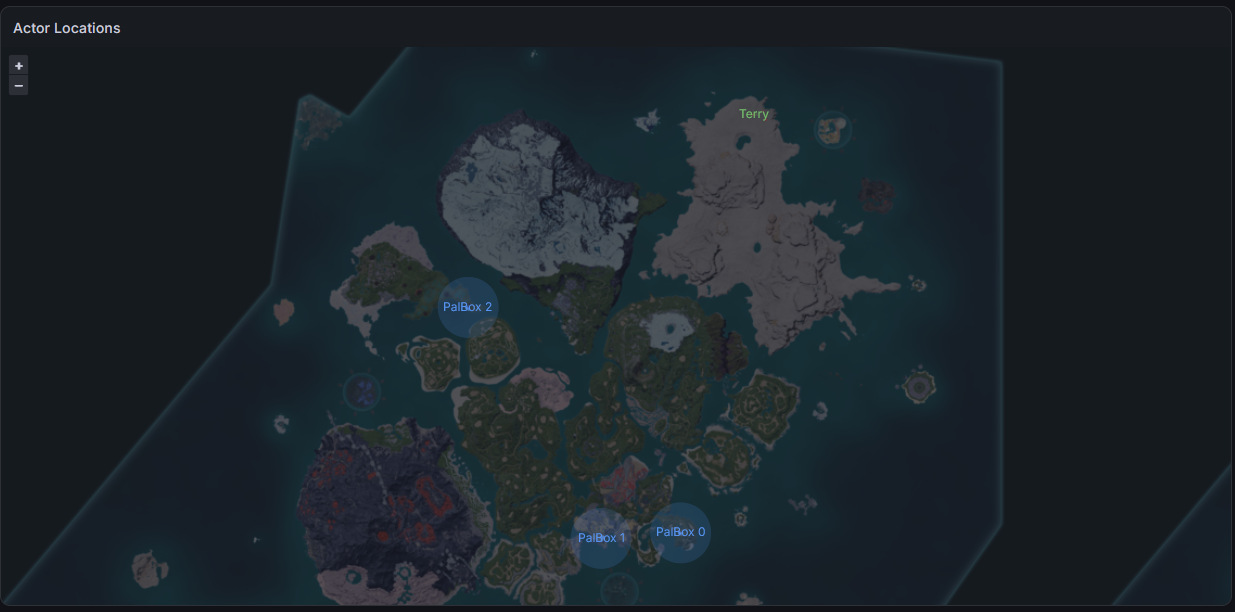
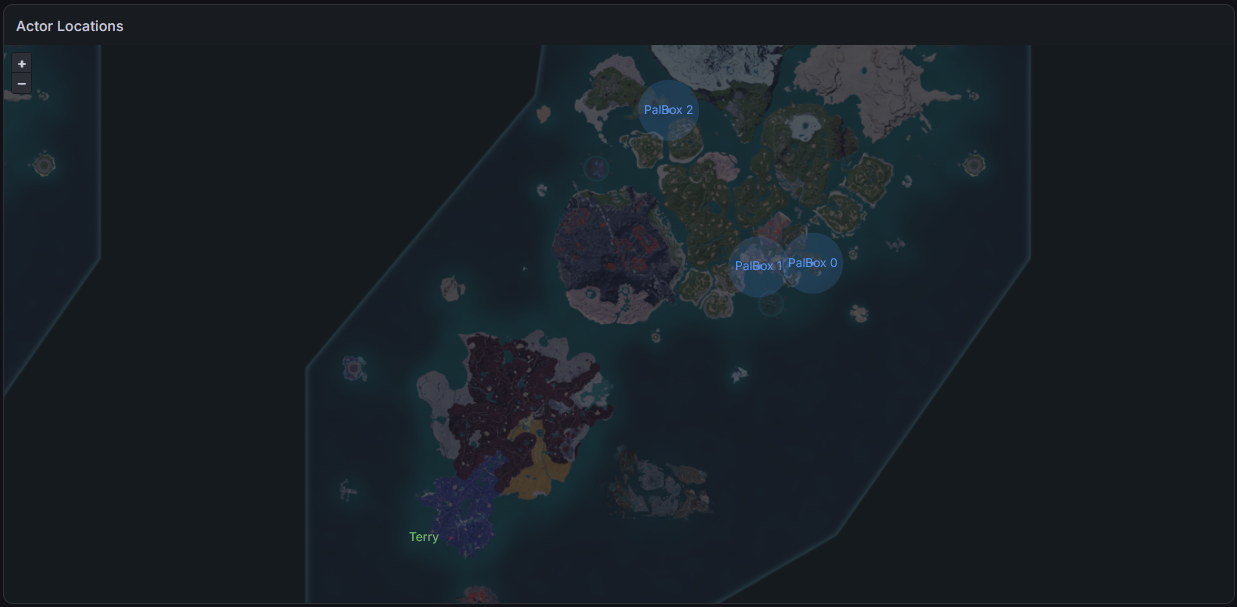
Updating the map-image and location math instructions.
Now including Tree! (imagemagick notes + coordinate fixes for a single map which incorporates the World Tree area.)

diff --git a/README.md b/README.md
@@ -245,63 +245,131 @@ When `--source-map-file` specifies an alternate image file, the application thus
 
 Player and actor metrics include location data, which can be marked on this map.
 
+Details below regarding Palworld's in-game map, including asset paths and coordinate measurements, are as of game version v1.0.5.102999.
+
 ## Providing a Palworld map file
 
-The texture (image) used to show Palworld's map in-game can only be extracted from the purchaseable game client for Windows. It is not included in the freely-available dedicated server package.
+The textures (images) used to show Palworld's map in-game can only be extracted from the purchaseable game client for Windows. They are not included in the freely-available dedicated server package.
 
 Given that, as Palworld is built with Unreal Engine, many free community-developed tools - including but not limited to [FModel](https://github.com/4sval/FModel) and [repak](https://github.com/trumank/repak) - can be used to extract assets from the game's content package at `<game-install-dir>/Pal/Content/Paks/Pal-Windows.pak`
 
-Within the content package, the path to Palworld's world map texture is: `Pal/Content/Pal/Texture/UI/Map/T_WorldMap.uasset`
-
 *If a tool requires Palworld's package-mapping information in "Mappings.usmap" this is likely available from the mod-development community, such as [at NexusMods](https://www.nexusmods.com/palworld/mods/2854).*
 
-The `T_WorldMap` texture should be easily export-able to a reusable image file. Note that the raw texture may be quite a bit larger than necessary for this application's simple visualization use-case; consider resizing the exported image to reduce application memory / bandwidth / visualization rendering load.
+Palworld's in-game map textures are within the content package at these paths:
 
-After exporting and/or converting an image file, this application can be configured to provide that map file (*e.g.* to support a geomap visualization) using the `--source-map-file=...` option.
+- Palpagos Islands or "MainMap" at `Pal/Content/Pal/Texture/UI/Map/T_WorldMap.uasset`
 
-If this application is being run in a Docker container, note that this option references an in-container file path, so the file must be mounted in the container with the `-v` option: `docker run ... -v /local/path/to/worldmap.png:/worldmap.png ... --source-map-file=/worldmap.png`
+- The World Tree or "Tree" at `Pal/Content/Pal/Texture/UI/Map/T_TreeMap.uasset`
+
+Textures should be easily export-able to reusable image files.
+
+Although in-game maps are displayed separately, they share a single coordinate system, and so image composition tools can combine the separate images into one all-encompassing map.
+
+The coordinate boundaries and ranges of these maps are encoded in another Palworld game asset: `Pal/Content/Pal/DataTable/WorldMapUIData/DT_WorldMapUIData.uasset`
+
+| Map / Axis | Minimum | Maximum | (Calculated) Range |
+| - | - | - | - |
+| MainMap "X" | -1099400.0 | 349400.0 | 1448800.0 |
+| MainMap "Y" | -724400.0 | 724400.0 | 1448800.0 |
+| Tree "X" | 347351.5 | 689148.5 | 341797.0 |
+| Tree "Y" | -818197.0 | -476400.0 | 341797.0 |
+| _Combined_ "X" | -1099400.0 | 689148.5 | 1788548.5 |
+| _Combined_ "Y" | -818197.0 | 724400.0 | 1542597.0 |
+
+Note that these coordinates...
+
+- Use "X" to define *vertical* positioning, and "Y" to define *horizontal* positioning.
+
+- In the "X" (vertical) dimension, increase from bottom to top. (While the "Y" i.e. horizontal coordinates increase from left to right.)
+
+Given these notes - and given that, for compatibility with [XYZ Tile layers](https://grafana.com/docs/grafana/latest/visualizations/panels-visualizations/visualizations/geomap/#xyz-tile-layer), the final map image must be a square - we can use some simple math to calculate image resizing and positioning parameters like so:
+
+```
+# EXAMPLE target output side length
+OutputL = 1024px
+
+# Combined map coordinates side length
+CombinedL = 1788548.5
+
+# MainMap coordinates side length
+MainMapL = 1448800.0
+
+MainMapResizedL = OutputL * (MainMapL / CombinedL)
+  = 1024px * (1448800.0 / 1788548.5)
+  = 829px
+
+MainMapLeftOffset = OutputL * ((MainMapMinY - CombinedMinY) / CombinedL)
+  = 1024px * ((-724400.0 - -818197.0) / 1788548.5)
+  = 54px
+
+MainMapTopOffset = OutputL * ((CombinedMaxX - MainMapMaxX) / CombinedL)
+  = 1024px * ((689148.5 - 349400.0) / 1788548.5)
+  = 195px
+
+# Tree coordinates side length
+TreeL = 341797.0
+
+TreeResizedL = OutputL * (TreeL / CombinedL)
+  = 1024px * (341797.0 / 1788548.5)
+  = 196px
+
+TreeLeftOffset = OutputL * ((TreeMinY - CombinedMinY) / CombinedL)
+  = 1024px * ((-818197.0 - -818197.0) / 1788548.5)
+  = 0px
+
+TreeTopOffset = OutputL * ((CombinedMaxX - TreeMaxX) / CombinedL)
+  = 1024px * ((689148.5 - 689148.5) / 1788548.5)
+  = 0px
+```
+
+(The example output side-length was arbitrarily chosen to balance visible detail versus client rendering complexity.)
+
+These calculations can be used in an [ImageMagick](https://imagemagick.org) composition command, to combine a static-color background with resized and repositioned map textures:
+
+```sh
+magick -size 1024x1024 xc:'#0D161E' \
+	T_WorldMap.png -geometry 829x829+54+195 -composite \
+	T_TreeMap.png -geometry 196x196+0+0 -composite \
+	output.png
+```
+
+The combined map image file can then be provided to this application's `--source-map-file=...` option. Note that if this application is being run in a Docker container, that file must be mounted within the container, like with the `-v` option: `docker run ... -v /local/path/to/output.png:/output.png ... --source-map-file=/output.png`
 
 Finally, a [Grafana Geomap](https://grafana.com/docs/grafana/latest/visualizations/panels-visualizations/visualizations/geomap/)'s Basemap layer can be configured to reference this map image as a [custom XYZ Tile URL](https://grafana.com/docs/grafana/latest/visualizations/panels-visualizations/visualizations/geomap/#xyz-tile-layer) using this application's `---serve-map-path=...` URL, for example: `http://metrics_exporter:8213/map`
 
-Unlike a real XYZ Tile server, this use-case provides only a single tile at a fixed zoom `Z` level and fixed `X` and `Y` position. *The basemap layer must also be configured to fix that `Z` level*; read on for more detail about positioning and location math.
+Unlike a real XYZ Tile server, this use-case provides only a single tile at a fixed zoom `Z` level and fixed `X` and `Y` position. *The basemap layer must also be configured to fix that `Z` level*; read on for more detail about how location coordinates are placed on this map.
 
 ## Understanding player and actor locations
 
 This application's exported metrics include:
 
 - `palserver_player_location_x` and `palserver_player_location_y` for each currently-connected player.
+
 - If Game Data metrics are enabled, `palserver_actor_location_x` and `palserver_actor_location_y` for each currently-simulating actor (including connected players).
 
-These values are taken directly from the Palworld server's API responses. They are not equal to the map coordinates seen by players in-game; they are also not correlated to intuitive meanings of X and Y coordinates.
+These values are taken directly from the Palworld server's API responses. They are not equal to the map coordinates seen by players in-game, but they do correspond to the map coordinates described above.
 
-The location "x" coordinate corresponds to the *vertical* span of Palworld's in-game map. The value increases from the bottom of the map to the top.
+Referencing those overall coordinate ranges, and given that "X" coordinates describe vertical positions (bottom-to-top) while "Y" describes horizontal positions (left-to-right), Palworld locations can be projected onto a hypothetical square which ranges from 0.0 (bottom left) to 1.0 (top right):
 
-The location "y" coordinate corresponds to the *horizontal* span of Palworld's in-game map. The value increases from the left of the map to the right.
+```
+position_vertical = (location_x - CombinedMinX) / CombinedL
+  = (location_x - -1099400.0) / 1788548.5
 
-The value ranges of these coordinates are encoded in Palworld game assets. (See the notes above regarding map-texture asset extraction; coordinate ranges can be observed in the data table at `Pal/Content/Pal/DataTable/WorldMapUIData/DT_WorldMapUIData.uasset`.) As of Palworld version v1.0.5.102999, they are:
+position_horizontal = (location_y - CombinedMinY) / CombinedL
+  = (location_y - -818197.0) / 1788548.5
+```
 
-| Axis | Minimum | Maximum | (Calculated) Range |
-| - | - | - | - |
-| `location_x` (vertical) | -1099400.0 (bottom) | 349400.0 (top) | 1448800.0 |
-| `location_y` (horizontal) | -724400.0 (left) | 724400.0 (right) | 1448800.0 |
+Those projected coordinates can then be roughly converted into geomap-compatible latitude and longitude values, by pretending that the square is equivalent to a flat projection of Earth. *However*... the [Web Mercator definition](https://en.wikipedia.org/wiki/Web_Mercator_projection), and [the Mercator projection's distortion of distance near extreme latitudes](https://en.wikipedia.org/wiki/Mercator_projection#Distortion_of_sizes), mean that such coordinate conversion becomes more mathematically convoluted (or, more inaccurate) the more of Earth is involved in this pretend equivalence.
 
-***NOTE**: These coordinates are for the "Main Map" only. Palworld's end-game "Tree" area has a separate map.*
-
-Thus to project Palworld locations onto a hypothetical square, ranging from 0.0 (bottom left) to 1.0 (top right):
-
-`position_vertical = (location_x + 1099400.0) / 1448800.0`
-
-`position_horizontal = (location_y + 724400.0) / 1448800.0`
-
-Given those ranges, Palworld location coordinates can be roughly converted into geomap-compatible latitude and longitude values, by pretending that Palworld's map is equivalent to a flat projection of Earth. *However*... the [Web Mercator definition](https://en.wikipedia.org/wiki/Web_Mercator_projection), and [the Mercator projection's distortion of distance near extreme latitudes](https://en.wikipedia.org/wiki/Mercator_projection#Distortion_of_sizes), mean that such coordinate conversion becomes more mathematically convoluted (or, more inaccurate) the more of Earth is involved in this pretend equivalence.
-
-A linear translation of Palworld location coordinates into pretend latitude and pretend longitude will be most successful when choosing a small range of latitude and longitude. For example, [according to OpenStreetMap's zoom level reference](https://wiki.openstreetmap.org/wiki/Zoom_levels), at XYZ tiles with a zoom level `Z = 8` a tile's width is approximately 1.406 degrees of longitude; and if the tile is close to the equator, its height will also be approximately 1.406 degrees of latitude.
+A linear translation of location coordinates into pretend latitude and pretend longitude will be most successful when choosing a small range of latitude and longitude. For example, [according to OpenStreetMap's zoom level reference](https://wiki.openstreetmap.org/wiki/Zoom_levels), at XYZ tiles with a zoom level `Z = 8` a tile's width is approximately 1.406 degrees of longitude; and if the tile is close to the equator, its height will also be approximately 1.406 degrees of latitude.
 
 In summary, if Palworld location coordinates are projected into a small (high zoom) XYZ tile that's near the equator (zero latitude), that projection can be linear without sacrificing meaningful accuracy. At `Z = 8`, these latitude and longitude values will range from the bottom left (0.0, 0.0) to top right (1.406, 1.406) of one tile:
 
-`latitude = (position_vertical * 1.406) = ((location_x + 1099400.0) / 1448800.0 * 1.406)`
+```
+latitude = (location_x - -1099400.0) / 1788548.5 * 1.406
 
-`longitude = (position_horizontal * 1.406) = ((location_y + 724400.0) / 1448800.0 * 1.406)`
+longitude = (location_y - -818197.0) / 1788548.5 * 1.406
+```
 
 ## Comprehensive example
 
@@ -345,10 +413,10 @@ A formatted version of the SQL expression:
 SELECT
   info.actor_name AS name,
   (
-    (location_x.__value__ + 1099400) / 1448800 * 1.406
+    (location_x.__value__ + 1099400) / 1788548.5 * 1.406
   ) AS latitude,
   (
-    (location_y.__value__ + 724400) / 1448800 * 1.406
+    (location_y.__value__ + 818197) / 1788548.5 * 1.406
   ) AS longitude,
   CASE
     WHEN info.actor_type = "PalBox" THEN "blue"
